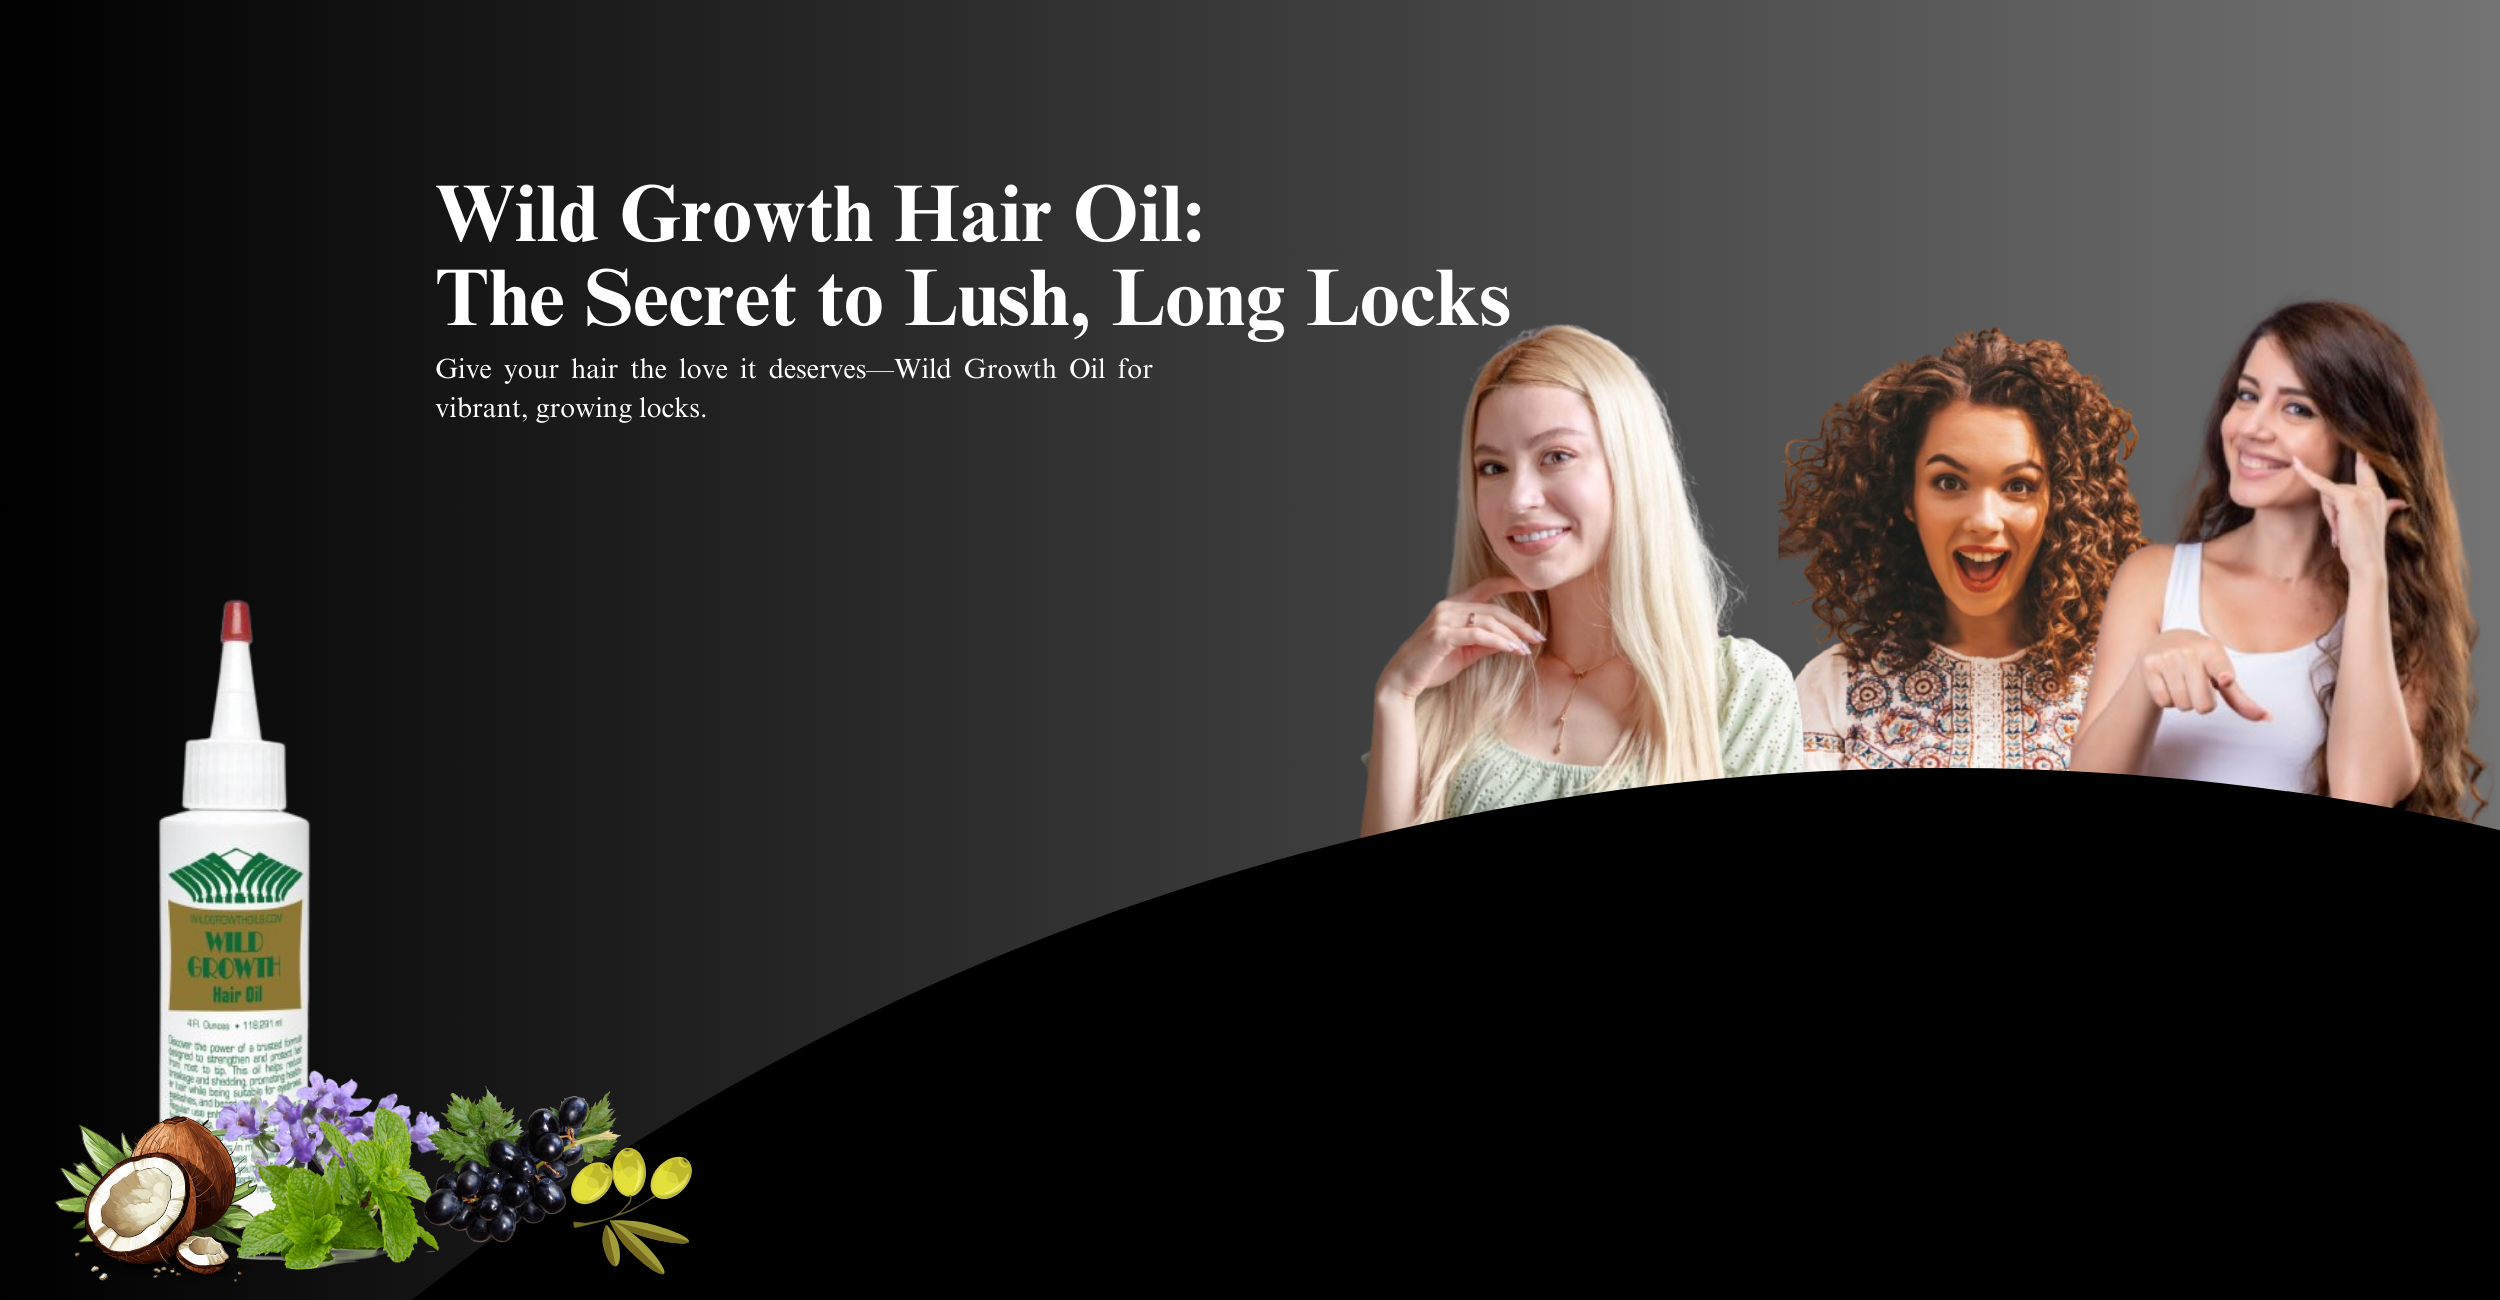
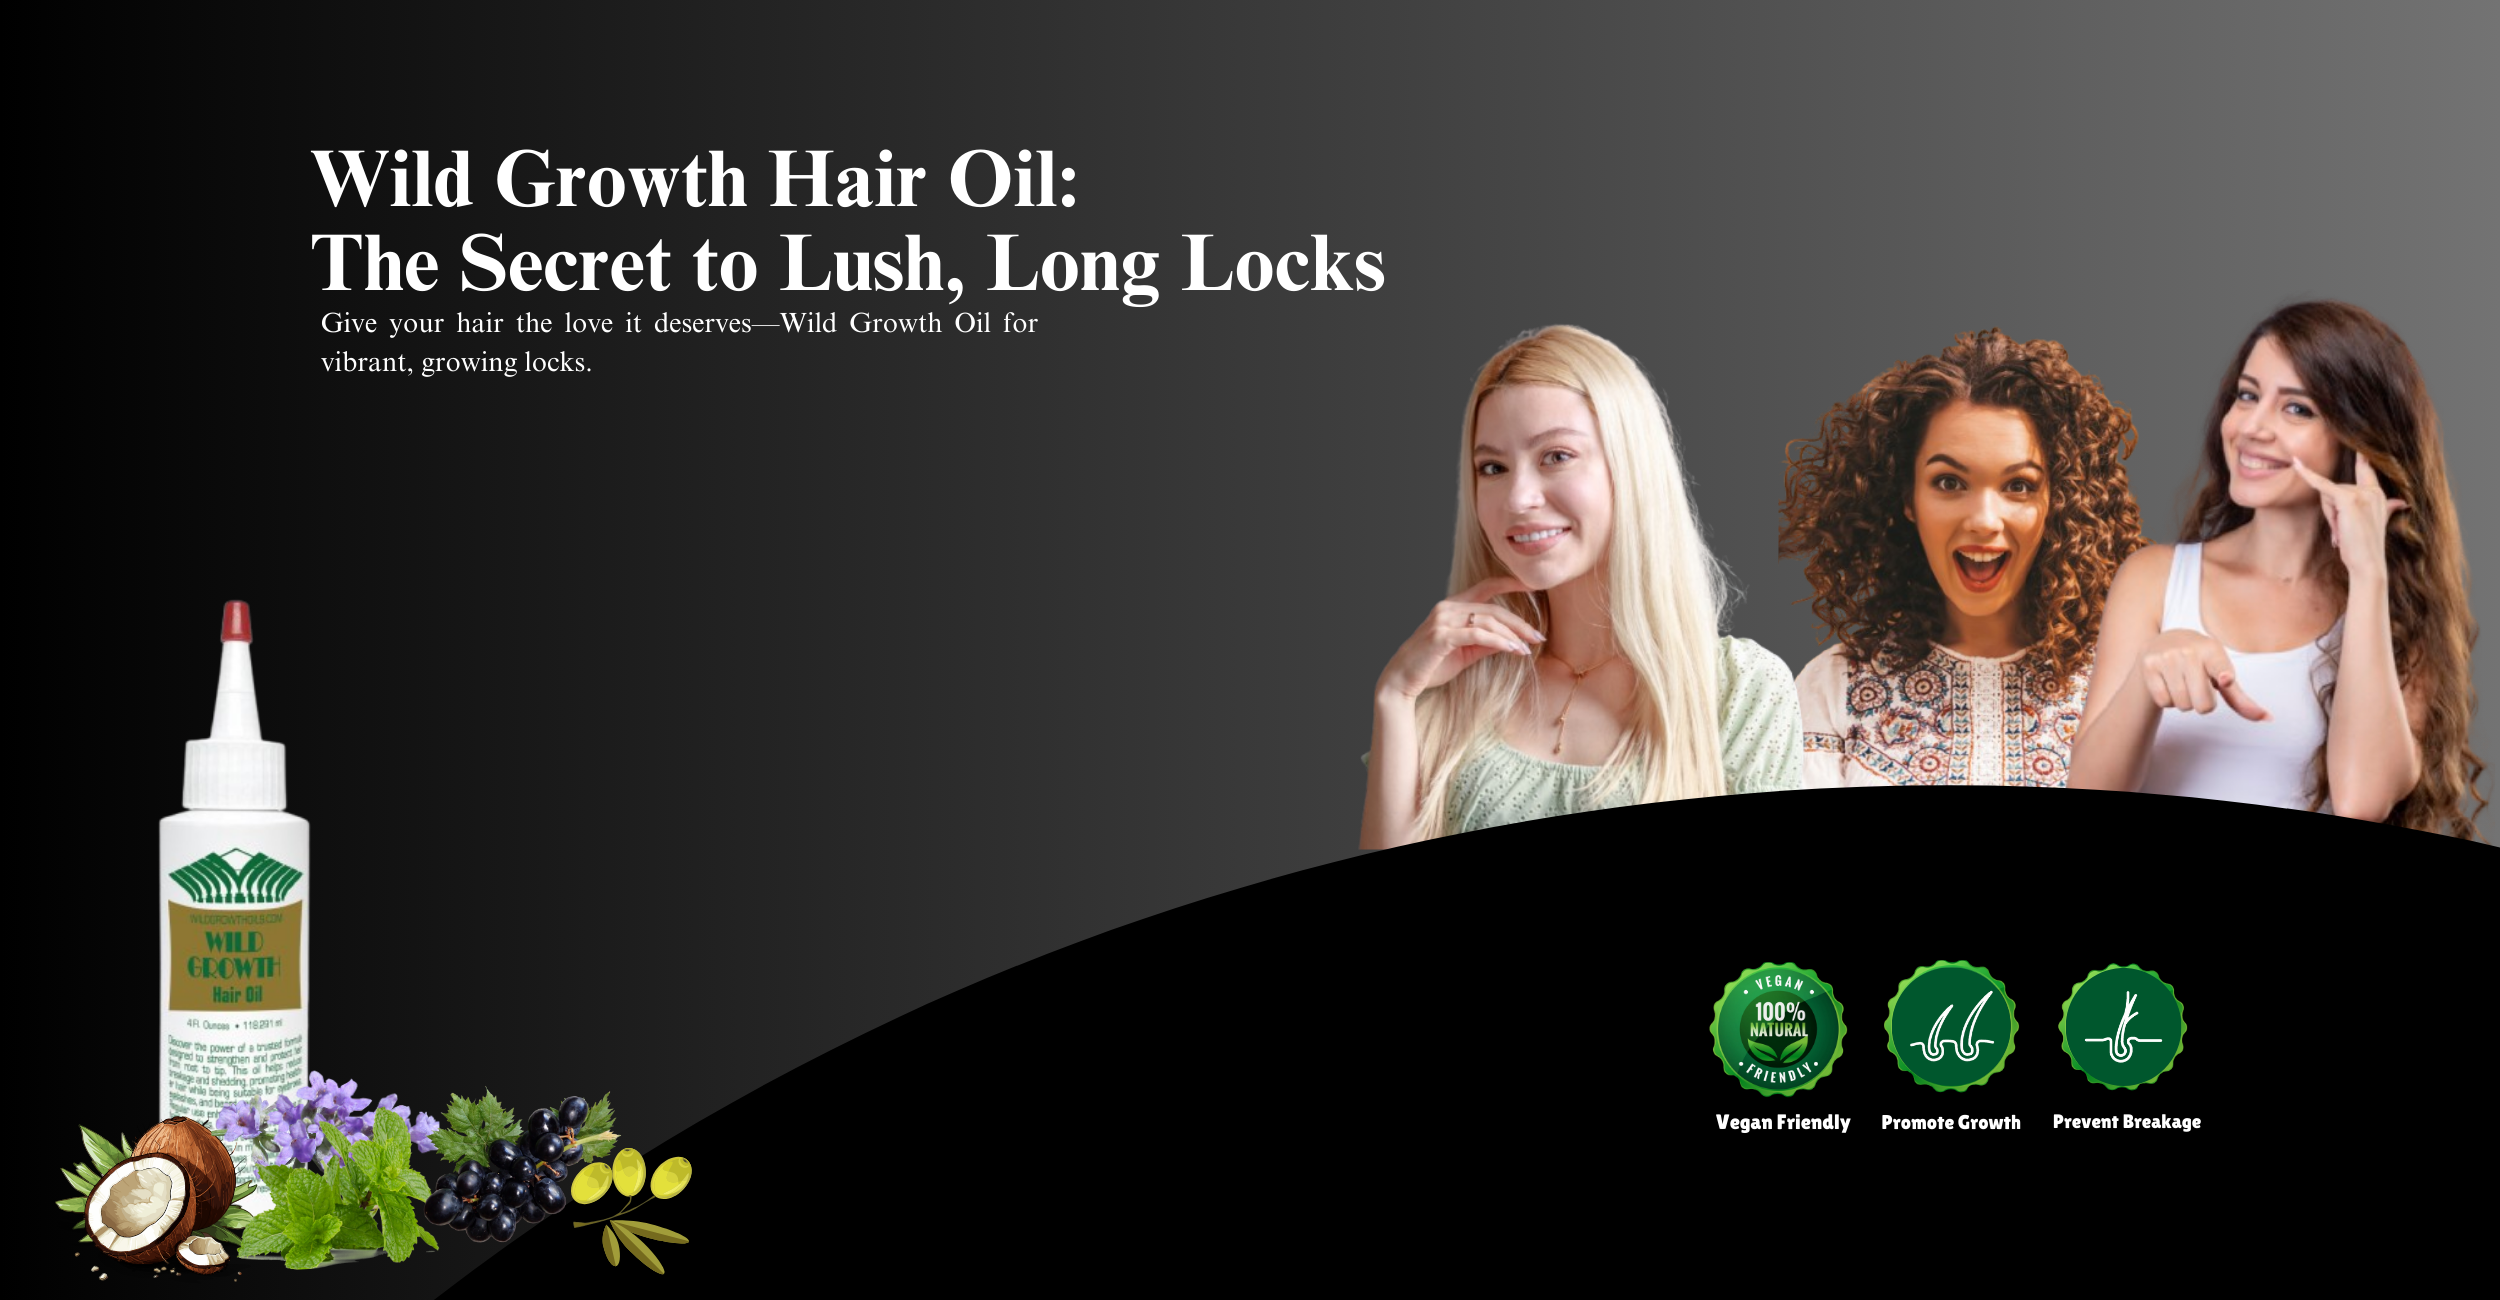
remove blurness from image and changes in image

diff --git a/src/styles/hero.css b/src/styles/hero.css
@@ -50,7 +50,8 @@
   content: '';
   position: absolute;
   inset: 0;
-  background: linear-gradient(to right, rgba(0, 0, 0, 0.7), rgba(0, 0, 0, 0.5));
+  background: linear-gradient(to right, rgba(0, 0, 0, 0.0), rgba(0, 0, 0, 0.0));   
+  /* background: linear-gradient(to right, rgba(0, 0, 0, 0.7), rgba(0, 0, 0, 0.5));     dark shade image*/
 }
 
 .hero-content {
